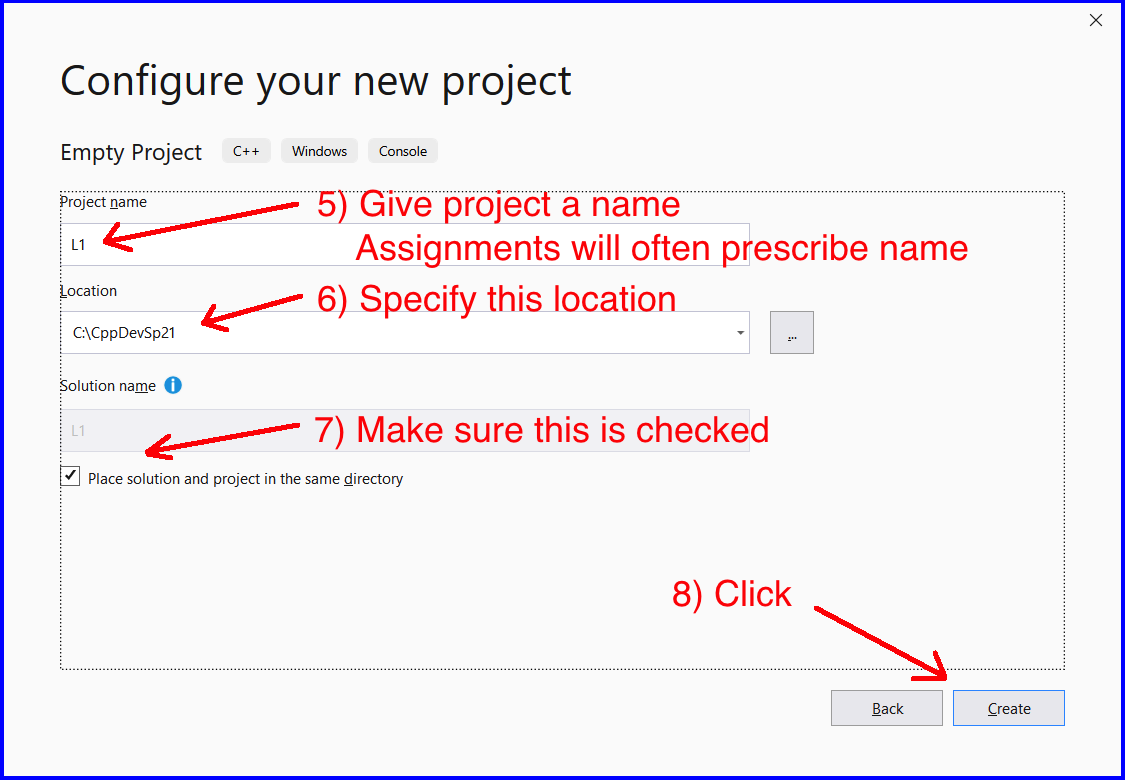
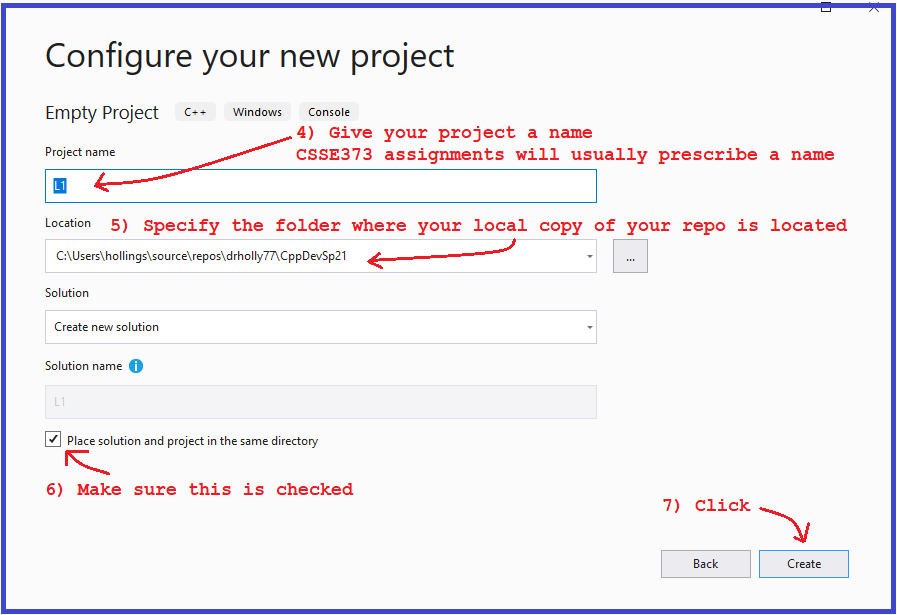
creating project

diff --git a/LabRelated/creatingNewVs2019Project.html b/LabRelated/creatingNewVs2019Project.html
@@ -8,7 +8,8 @@
 
 <body>
 <h2>Creating a New VS2019 Project</h2>
-<img src="imagesVS19CreateProject/0-VS2019OpeningWindow.png"  alt="" width="1000" height="694"/>
+	<hr>
+<p><img src="imagesVS19CreateProject/0-createNewProjectN1.png" width="663" height="166" alt=""/></p>
 <hr>
 <img src="imagesVS19CreateProject/1-NewProjectDialog.png"  alt="" width="1000" height="694"/>
 <hr>
